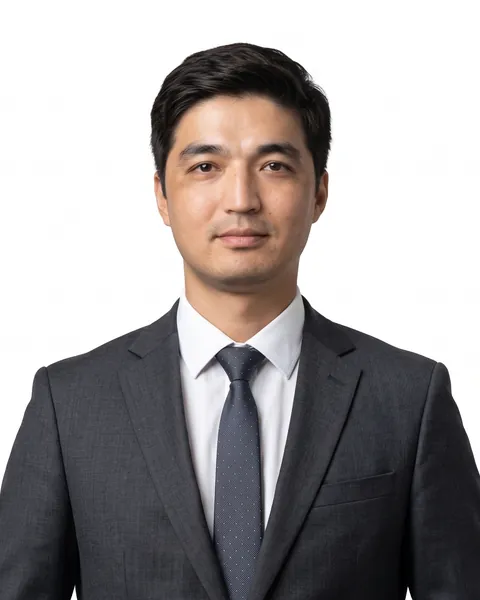
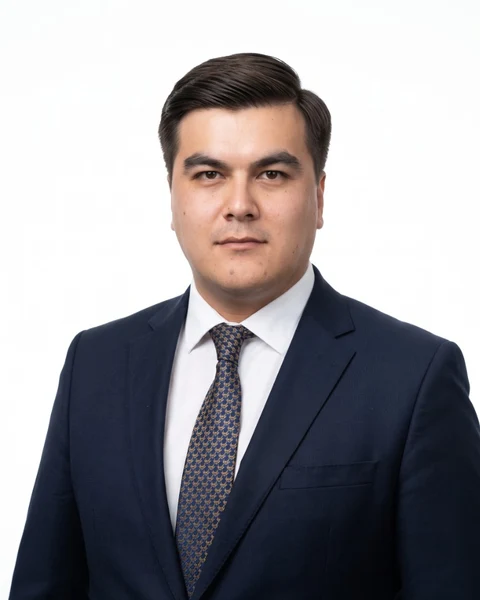
Xodimlar yangilandi: Asadbek rasmi yangilandi va Javohir Pardayev qo'shildi

diff --git a/public/index.html b/public/index.html
@@ -782,7 +782,7 @@ ul,ol{margin:0;padding:0;list-style:none}
 }
 .founder-quote svg{width:26px;height:26px;color:var(--green);opacity:.3;margin-bottom:12px}
 .founder-sign{display:flex;align-items:center;gap:13px;margin-top:20px;padding-top:18px;border-top:1px solid var(--rule)}
-.fs-av{width:52px;height:52px;border-radius:50%;flex:none;border:2px solid var(--paper-2);box-shadow:var(--sh-1);background:url("images/team/asadbek-mamarasulov-avatar.webp") 50% 50% / cover no-repeat}
+.fs-av{width:52px;height:52px;border-radius:50%;flex:none;border:2px solid var(--paper-2);box-shadow:var(--sh-1);background:url("images/team/asadbek-mamarasulov-avatar.webp?v=3") 50% 50% / cover no-repeat}
 
 /* ============================================================
    checklists inside service cards + small annotated notes
@@ -2202,8 +2202,8 @@ input[type=range]:focus-visible{outline:2px solid var(--green-2);outline-offset:
     <ul class="team-grid">
       <li class="team-card rv" style="--d:0ms">
         <figure>
-          <img src="images/team/asadbek-mamarasulov-800.webp?v=2"
-               srcset="images/team/asadbek-mamarasulov-480.webp?v=2 480w, images/team/asadbek-mamarasulov-800.webp?v=2 800w"
+          <img src="images/team/asadbek-mamarasulov-800.webp?v=3"
+               srcset="images/team/asadbek-mamarasulov-480.webp?v=3 480w, images/team/asadbek-mamarasulov-800.webp?v=3 800w"
                sizes="(max-width: 900px) 46vw, 400px"
                width="800" height="1000" loading="lazy" decoding="async"
                alt="Asadbek Mamarasulov">
@@ -2211,6 +2211,16 @@ input[type=range]:focus-visible{outline:2px solid var(--green-2);outline-offset:
         </figure>
       </li>
       <li class="team-card rv" style="--d:90ms">
+        <figure>
+          <img src="images/team/javohir-pardayev-800.webp?v=3"
+               srcset="images/team/javohir-pardayev-480.webp?v=3 480w, images/team/javohir-pardayev-800.webp?v=3 800w"
+               sizes="(max-width: 900px) 46vw, 400px"
+               width="800" height="1000" loading="lazy" decoding="async"
+               alt="Javohir Pardayev">
+          <figcaption><span class="team-first">Javohir</span><span class="team-last">Pardayev</span></figcaption>
+        </figure>
+      </li>
+      <li class="team-card rv" style="--d:180ms">
         <figure>
           <img src="images/team/muhammadjon-mamadaliyev-800.webp?v=2"
                srcset="images/team/muhammadjon-mamadaliyev-480.webp?v=2 480w, images/team/muhammadjon-mamadaliyev-800.webp?v=2 800w"
@@ -2220,7 +2230,7 @@ input[type=range]:focus-visible{outline:2px solid var(--green-2);outline-offset:
           <figcaption><span class="team-first">Muhammadjon</span><span class="team-last">Mamadaliyev</span></figcaption>
         </figure>
       </li>
-      <li class="team-card rv" style="--d:180ms">
+      <li class="team-card rv" style="--d:0ms">
         <figure>
           <img src="images/team/shoxjaxon-roupov-800.webp?v=2"
                srcset="images/team/shoxjaxon-roupov-480.webp?v=2 480w, images/team/shoxjaxon-roupov-800.webp?v=2 800w"
@@ -2230,7 +2240,7 @@ input[type=range]:focus-visible{outline:2px solid var(--green-2);outline-offset:
           <figcaption><span class="team-first">Shoxjaxon</span><span class="team-last">Roupov</span></figcaption>
         </figure>
       </li>
-      <li class="team-card rv" style="--d:0ms">
+      <li class="team-card rv" style="--d:90ms">
         <figure>
           <img src="images/team/hasanboy-solayev-800.webp?v=2"
                srcset="images/team/hasanboy-solayev-480.webp?v=2 480w, images/team/hasanboy-solayev-800.webp?v=2 800w"
@@ -2240,7 +2250,7 @@ input[type=range]:focus-visible{outline:2px solid var(--green-2);outline-offset:
           <figcaption><span class="team-first">Hasanboy</span><span class="team-last">Solayev</span></figcaption>
         </figure>
       </li>
-      <li class="team-card rv" style="--d:90ms">
+      <li class="team-card rv" style="--d:180ms">
         <figure>
           <img src="images/team/diyorbek-goforov-800.webp?v=2"
                srcset="images/team/diyorbek-goforov-480.webp?v=2 480w, images/team/diyorbek-goforov-800.webp?v=2 800w"
@@ -2250,7 +2260,7 @@ input[type=range]:focus-visible{outline:2px solid var(--green-2);outline-offset:
           <figcaption><span class="team-first">Diyorbek</span><span class="team-last">Gʻoforov</span></figcaption>
         </figure>
       </li>
-      <li class="team-card rv" style="--d:180ms">
+      <li class="team-card rv" style="--d:0ms">
         <figure>
           <img src="images/team/sardor-muxammedov-800.webp?v=2"
                srcset="images/team/sardor-muxammedov-480.webp?v=2 480w, images/team/sardor-muxammedov-800.webp?v=2 800w"
